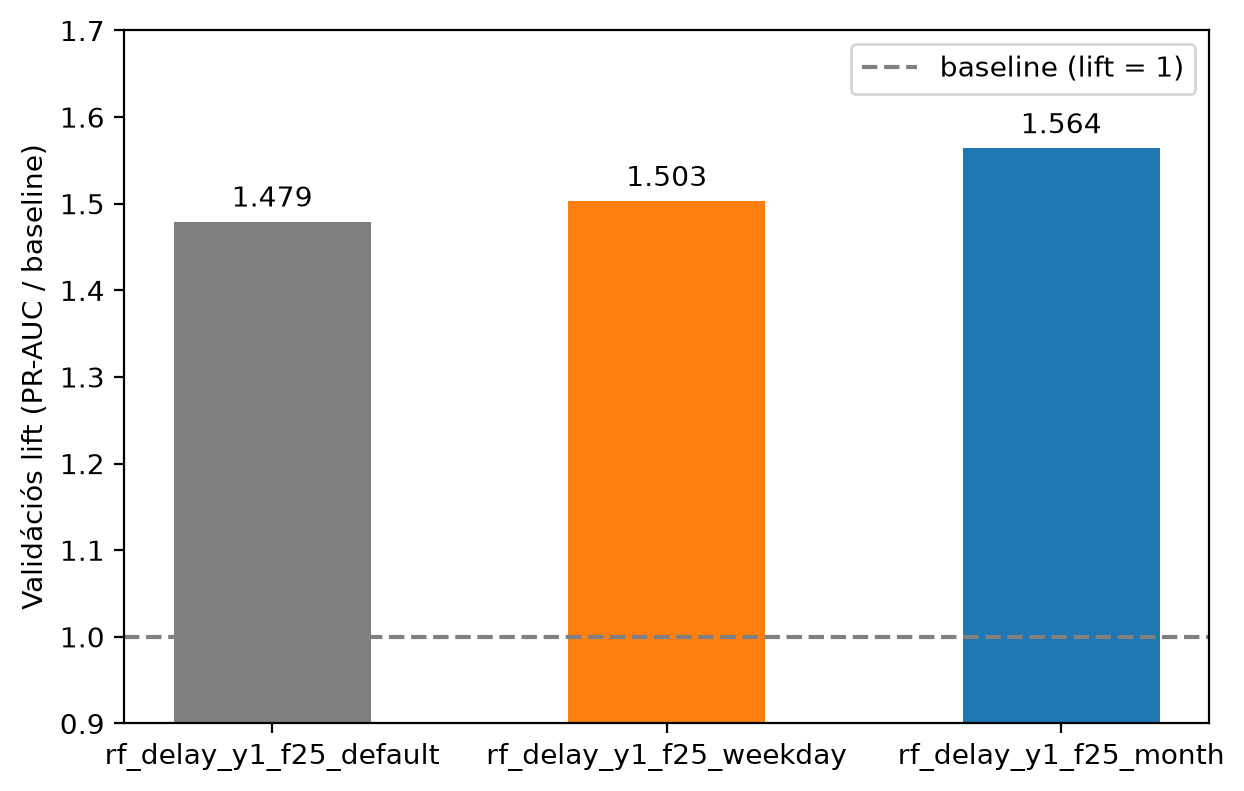
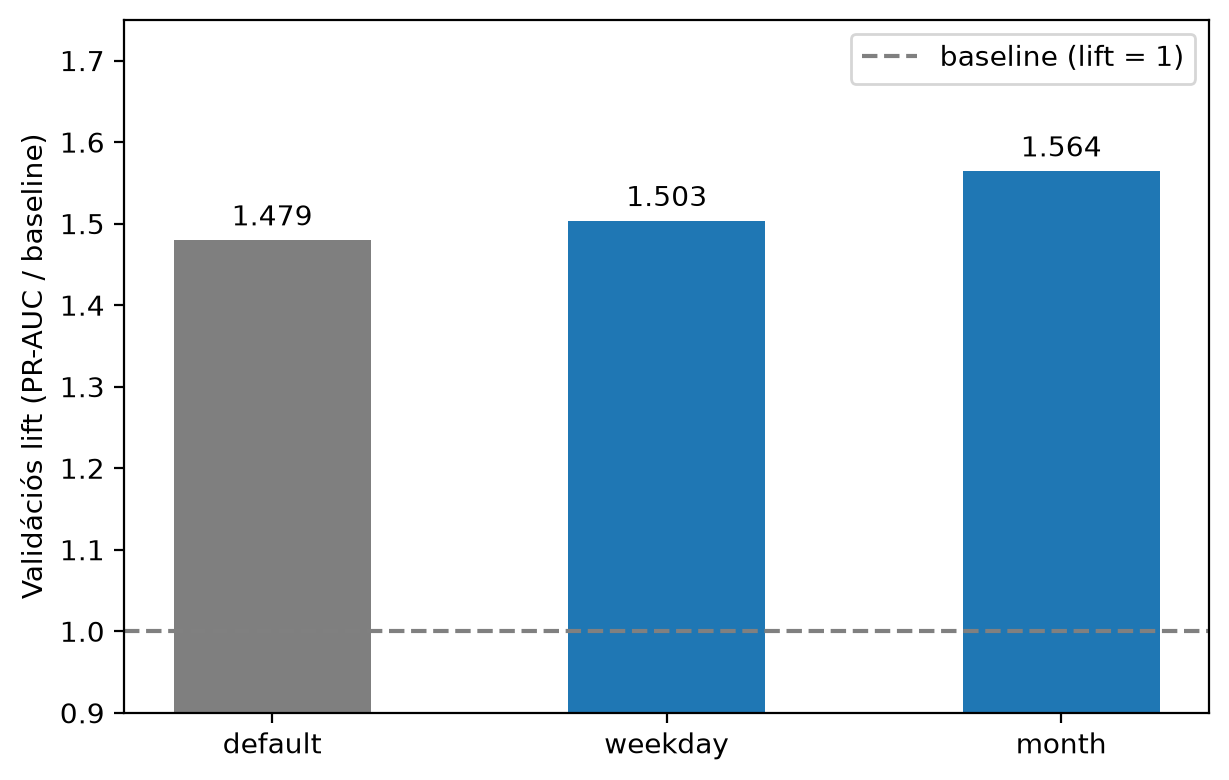
Add departures-in-hour traffic feature and compare across seeds

Changed region(s): [[0.0, 0.0, 0.9894, 0.9846], [0.0928, 0.9231, 0.371, 0.9846], [0.0309, 0.8923, 0.0928, 0.9231]]

diff --git a/ml/train_rf_delay.py b/ml/train_rf_delay.py
@@ -13,9 +13,9 @@ from datetime import datetime
 import json
 import time
 
-FEATURES = ["Reporting_Airline", "Origin_Airport", "Destination_Airport", "Hour_Of_Departure", "Weekday_Of_Departure", "Month_Of_Departure"] 
+FEATURES = ["Reporting_Airline", "Origin_Airport", "Destination_Airport", "Hour_Of_Departure", "Weekday_Of_Departure", "Month_Of_Departure", "Departures_In_Hour"] 
 TARGET_LABEL = "Is_Dep_Delay_Greater_Than_15"
-PARAMS = {"random_state" : 42, "n_jobs" :-1, "n_estimators" :100, "max_depth" : 15, "min_samples_leaf" : 50}
+PARAMS = {"random_state" : 43, "n_jobs" :-1, "n_estimators" :100, "max_depth" : 15, "min_samples_leaf" : 50}
 CATEGORICAL = ["Reporting_Airline", "Origin_Airport", "Destination_Airport"]
 # Constants for running a model
 ARTIFACTS_DIR = Path(__file__).parent / "artifacts"
@@ -23,7 +23,7 @@ TRAIN_END = "2024-07-31"
 VAL_START, VAL_END   = "2024-08-01", "2025-07-31"
 TEST_START, TEST_END = "2025-08-01", "2026-07-31"
 YEARS = 1
-TAG = "month"
+TAG = "traffic_hour_rs43"
 STEP = "features"
 FRACTIONS = {"25": 0.25}
 
